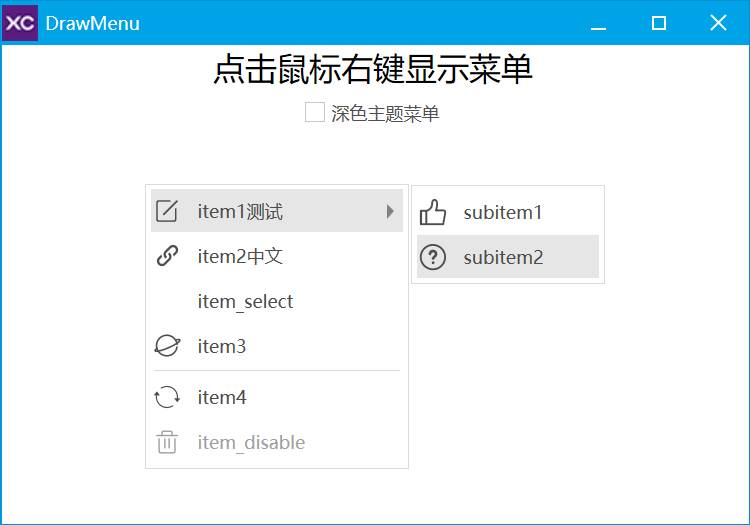
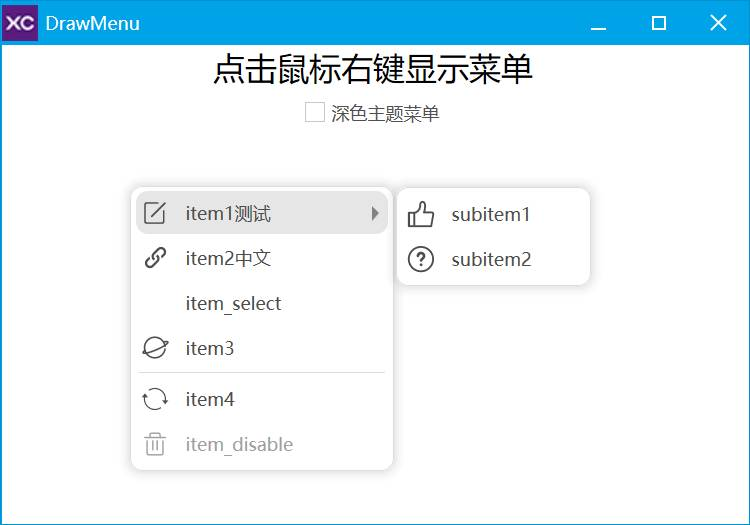
自绘美化菜单

diff --git a/Advanced/DrawMenu/DrawMenu.go b/Advanced/DrawMenu/DrawMenu.go
@@ -103,6 +103,24 @@ func onWindowRButtonUp(hWindow int, nFlags uint, pPt *xc.POINT, pbHandled *bool)
 	return 0
 }
 
+const (
+	svg1 = `<svg t="1644889730063" class="icon" viewBox="0 0 1024 1024" version="1.1" xmlns="http://www.w3.org/2000/svg" p-id="5072" width="20" height="20"><path d="M808.192 413.747c-14.797 0-24.576 9.83-24.576 24.576v343.808c0 29.491-19.507 49.101-49.1 49.101H243.353c-29.594 0-49.101-19.61-49.101-49.1V241.868c0-29.491 19.507-49.101 49.1-49.101h368.385c14.796 0 24.576-9.78 24.576-24.576 0-14.746-9.728-24.576-24.576-24.576h-392.96c-44.39 0-73.677 39.066-73.677 83.302v579.738c0 44.237 29.286 73.677 73.677 73.677H759.04c44.39 0 73.677-29.44 73.677-73.677V438.323c0-14.745-9.728-24.576-24.525-24.576z m-430.131 233.78c11.878 11.775 31.13 11.775 43.059 0l448.87-449.23a30.208 30.208 0 0 0 0-42.854 30.566 30.566 0 0 0-43.059 0l-448.87 449.229a30.106 30.106 0 0 0 0 42.854z" p-id="5073" fill="#4d4d4d"></path></svg>`
+
+	svg2 = `<svg t="1644825215895" class="icon" viewBox="0 0 1024 1024" version="1.1" xmlns="http://www.w3.org/2000/svg" p-id="17579" width="26" height="26"><path d="M752.535797 273.701662l-2.230808-2.227738c-51.299363-51.300386-135.227868-51.300386-186.526207 0l-118.846782 118.883621c-51.299363 51.281967-51.299363 135.222751 0 186.544627l2.192945 2.156106c4.27742 4.267187 8.833179 8.116865 13.485129 11.728112l43.49563-43.544749c-5.086855-2.956332-9.885138-6.591115-14.223956-10.92891l-2.192945-2.156106c-27.855418-27.866674-27.855418-73.180719 0-101.048417L606.609263 314.26859c27.782763-27.855418 73.084529-27.855418 100.951203 0l2.218528 2.180666c27.855418 27.867698 27.855418 73.194022 0 101.012601l-53.736878 53.765531c9.304923 23.067368 13.740956 47.64002 13.304004 72.114434l83.152838-83.117023C803.83516 408.918273 803.83516 325.004095 752.535797 273.701662L752.535797 273.701662 752.535797 273.701662 752.535797 273.701662zM576.877101 444.959118c-4.266164-4.264117-8.820899-8.118911-13.521968-11.680017l-43.472094 43.496653c5.088902 3.00545 9.888208 6.615675 14.249539 10.952446l2.215458 2.227738c27.855418 27.820626 27.855418 73.135694 0 101.002368L417.465438 709.790762c-27.854395 27.821649-73.15616 27.821649-101.010555 0l-2.229784-2.204202c-27.854395-27.864628-27.854395-73.204256 0-100.999298l53.771671-53.745065c-9.317203-23.070438-13.763468-47.665603-13.340843-72.140017l-83.176374 83.068927c-51.312666 51.349505-51.312666 135.288243 0 186.563046l2.216481 2.228761c51.299363 51.251268 135.227868 51.251268 186.526207 0l118.835526-118.883621c51.250244-51.299363 51.250244-135.263683 0-186.513928L576.877101 444.959118 576.877101 444.959118 576.877101 444.959118 576.877101 444.959118zM576.877101 444.959118" p-id="17580" fill="#4d4d4d"></path></svg>`
+
+	svg3 = `<svg t="1644825317661" class="icon" viewBox="0 0 1024 1024" version="1.1" xmlns="http://www.w3.org/2000/svg" p-id="19032" width="18" height="18"><path d="M485.376 931.84c-231.424 0-419.84-188.416-419.84-419.84s188.416-419.84 419.84-419.84c197.632 0 370.688 140.288 410.624 333.824 2.048 11.264 4.096 23.552 6.144 34.816 2.048 16.384-10.24 31.744-26.624 33.792-16.384 2.048-31.744-10.24-33.792-26.624-1.024-10.24-3.072-20.48-5.12-29.696-34.816-165.888-182.272-286.72-352.256-286.72-197.632 1.024-358.4 161.792-358.4 360.448S286.72 871.424 485.376 871.424c177.152 0 329.728-132.096 355.328-306.176 2.048-16.384 17.408-27.648 33.792-25.6 16.384 2.048 27.648 17.408 25.6 33.792C870.4 778.24 691.2 931.84 485.376 931.84z" p-id="19033" fill="#4d4d4d"></path><path d="M95.232 758.784c-45.056 0-70.656-12.288-80.896-36.864-19.456-45.056 34.816-94.208 77.824-126.976 13.312-10.24 31.744-8.192 41.984 5.12 10.24 13.312 8.192 31.744-5.12 41.984-36.864 28.672-51.2 46.08-56.32 55.296 39.936 10.24 202.752-16.384 464.896-130.048 262.144-113.664 393.216-215.04 412.672-250.88-12.288-3.072-47.104-5.12-131.072 14.336-16.384 4.096-32.768-6.144-35.84-22.528-4.096-16.384 6.144-32.768 22.528-35.84 122.88-28.672 185.344-22.528 203.776 18.432 17.408 40.96-19.456 90.112-121.856 158.72-82.944 56.32-198.656 117.76-325.632 173.056-126.976 55.296-250.88 98.304-349.184 119.808-48.128 11.264-87.04 16.384-117.76 16.384z" p-id="19034" fill="#4d4d4d"></path></svg>`
+
+	svg4 = `<svg t="1644820967538" class="icon" viewBox="0 0 1024 1024" version="1.1" xmlns="http://www.w3.org/2000/svg" p-id="4979" width="20" height="20"><path d="M508.5 889.1c-51.1 0-100.7-10-147.4-29.8-45.1-19.1-85.6-46.4-120.3-81.1-34.8-34.8-62.1-75.3-81.1-120.3-19.7-46.7-29.8-96.3-29.8-147.4 0-54.2 11.2-106.5 33.3-155.6l36.5 16.5c-19.8 43.8-29.8 90.6-29.8 139.1 0 186.7 151.9 338.6 338.6 338.6 69.7 0 136.7-21 193.7-60.8l22.9 32.8c-63.7 44.4-138.6 68-216.6 68zM858.1 656.1l-36.9-15.4c17.2-41.3 25.9-85.1 25.9-130.2 0-186.7-151.9-338.6-338.6-338.6-69.3 0-135.9 20.8-192.6 60.1l-22.8-33c63.4-44 137.9-67.2 215.4-67.2 51.1 0 100.7 10 147.4 29.8 45.1 19.1 85.6 46.4 120.3 81.1C811 277.5 838.3 318 857.3 363c19.7 46.7 29.8 96.3 29.8 147.4 0 50.5-9.7 99.5-29 145.7z" p-id="4980" fill="#4d4d4d"></path><path d="M271 454.9L166.6 318.1 57.5 453.9zM965.5 554.6L861 691.4 752 555.5z" p-id="4981" fill="#4d4d4d"></path></svg>`
+
+	svg_select = `<svg t="1644821064310" class="icon" viewBox="0 0 1024 1024" version="1.1" xmlns="http://www.w3.org/2000/svg" p-id="9602" width="20" height="20"><path d="M480 736c-8 0-16-3.2-22.4-9.6l-288-288c-12.8-12.8-12.8-32 0-44.8 12.8-12.8 32-12.8 44.8 0L480 659.2l425.6-425.6c12.8-12.8 32-12.8 44.8 0 12.8 12.8 12.8 32 0 44.8l-448 448C496 732.8 488 736 480 736z" p-id="9603" fill="#4d4d4d"></path></svg>`
+
+	svg_disable = `<svg t="1644892973051" class="icon" viewBox="0 0 1024 1024" version="1.1" xmlns="http://www.w3.org/2000/svg" p-id="5040" width="20" height="20"><path d="M561.1 708.454V413.798c0-47.155 49.102-47.155 49.102 0v294.708c0.05 34.099-49.101 38.656-49.101-0.052z m-147.302 0V413.798c0-47.155 49.101-47.155 49.101 0v294.708c0 38.656-49.1 34.099-49.1-0.052z m442.01-442.01H708.454v-49.151c0-71.731-22.988-98.253-98.252-98.253H413.798c-74.035 0-98.252 24.166-98.252 98.253v49.152H168.192c-53.094 0-53.094 49.1 0 49.1h687.616c53.094 0 53.094-49.1 0-49.1z m-491.162-49.151c0-47.667 2.97-49.101 49.101-49.101h196.455c46.08 0 49.1 1.126 49.1 49.1v49.153H364.646v-49.152z m343.91 687.616h-393.01c-70.964 0-98.253-27.239-98.253-98.253V413.798c0-49.612 49.1-49.612 49.1 0v392.91c0 47.718-0.102 49.151 49.101 49.151h392.91c47.718 0 49.1 0.154 49.1-49.152V413.798c0-48.486 49.1-48.486 49.1 0v392.91c0.103 69.426-23.96 98.2-98.047 98.2z" p-id="5041" fill="#A0A0A0"></path></svg>`
+
+	svg_subitem1 = `<svg t="1644821662815" class="icon" viewBox="0 0 1024 1024" version="1.1" xmlns="http://www.w3.org/2000/svg" p-id="9848" width="20" height="20"><path d="M836.48 867.2l22.08-122.752c20.224-112.832 33.504-188.672 35.776-204.704 6.144-44.352-2.048-52.576-48.736-51.584-16.736 0.32-57.28 0.608-114.752 0.736-26.784 0.064-55.424 0.128-84.064 0.128h-38.208c-24.48 0-39.968-26.464-28.16-48.064 0.8-1.408 2.592-5.184 5.12-11.328 4.512-10.944 9.088-24.32 13.376-40 12.576-45.888 20.16-101.44 20.16-166.592 0-56.384-26.752-92.544-54.944-94.144-27.2-1.536-51.392 32-51.392 103.872 0 96.384-42.72 169.6-112.768 220.864a345.824 345.824 0 0 1-86.272 46.496v394.976h517.728l5.056-27.872v-0.032z m-558.144 92.64H100.8c-20.32 0-36.8-14.56-36.8-32.512V468.864c0-17.952 16.48-32.512 36.832-32.512h197.44l2.336-0.96a288.32 288.32 0 0 0 61.536-34.176c54.432-39.904 86.336-94.464 86.336-168.416 0-104.96 48.768-172.672 119.232-168.64 65.92 3.776 115.648 70.912 115.648 158.88 0 71.072-8.352 132.384-22.496 183.808-1.664 6.176-3.328 11.936-5.056 17.312 25.568 0 50.976-0.064 74.848-0.128v0.032c56.96-0.128 97.44-0.32 113.6-0.704 84.544-1.792 125.664 39.52 113.696 125.44-2.4 17.344-15.584 92.416-36.16 207.232a72131.418 72131.418 0 0 1-29.248 162.496l-2.016 10.976-0.512 2.88C887.04 948.8 873.696 960 858.208 960h-576.64a32.32 32.32 0 0 1-3.232-0.16z m-28.928-64.96V501.312H137.6v393.504h111.776z" p-id="9849" fill="#4d4d4d"></path></svg>`
+
+	svg_subitem2 = `<svg t="1644821694360" class="icon" viewBox="0 0 1024 1024" version="1.1" xmlns="http://www.w3.org/2000/svg" p-id="10142" width="20" height="20"><path d="M465.728 707.2a48.96 48.96 0 1 0 97.92 0 48.96 48.96 0 1 0-97.92 0zM398.08 309.952c-32.32 35.136-67.328 138.24 7.936 140.032 41.984 1.024 41.6-25.088 43.712-31.296s6.336-35.648 19.008-47.936 18.88-18.368 38.592-18.368c19.328 0 34.624 5.12 46.144 15.168 11.584 10.112 17.28 22.336 17.28 36.672a54.848 54.848 0 0 1-7.04 28.416c-4.736 7.936-18.304 22.464-40.896 43.584-23.424 22.016-40.64 45.568-51.008 70.528-22.656 54.656 61.056 71.36 77.888 47.104 16.512-23.872 6.912-28.48 46.528-67.968C616 507.2 628.416 493.696 633.6 485.568c8.96-13.44 15.296-26.688 19.392-39.616a139.072 139.072 0 0 0-13.056-110.464c-38.912-68.48-160.96-113.472-241.856-25.536z" p-id="10143" fill="#4d4d4d"></path><path d="M508.544 66.88A448 448 0 0 0 60.992 514.432a448 448 0 0 0 447.552 447.552 448 448 0 0 0 447.552-447.552A448 448 0 0 0 508.544 66.88z m0 831.104a384 384 0 0 1-383.552-383.552A384 384 0 0 1 508.544 130.88a384 384 0 0 1 383.552 383.552 384 384 0 0 1-383.552 383.552z" p-id="10144" fill="#4d4d4d"></path></svg>`
+)
+
 // MenuEx 美化菜单.
 type MenuEx struct {
 	*widget.Menu
@@ -193,6 +211,35 @@ func (mx *MenuEx) AddSeparator(nParentID ...int32) *MenuEx {
 //
 // hWindowOrhEle: 窗口或元素句柄.
 func (mx *MenuEx) bindMenuEvent(hWindowOrhEle int) *MenuEx {
+	// 菜单弹出窗口事件
+	mx.Menu.AddEvent_Menu_Popup_Wnd(hWindowOrhEle, func(hWindowOrhEle, hMenu int, pInfo *xc.Menu_PopupWnd_, pbHandled *bool) int {
+		// pInfo.HWindow 是菜单窗口句柄
+		w := window.NewByHandle(pInfo.HWindow)
+		// 设置窗口为透明窗口阴影类型
+		w.SetTransparentType(xcc.Window_Transparent_Shadow)
+		// 设置窗口阴影信息
+		w.SetShadowInfo(mx.style.ShadowSize, mx.style.ShadowDepth, mx.style.CornerRadius, false, mx.style.ShadowColor)
+		// 设置窗口透明度
+		w.SetTransparentAlpha(mx.style.TransparentAlpha)
+		// 获取窗口矩形
+		rc := w.GetRectEx()
+		// 因为增加了阴影, 所以要调整窗口大小加上阴影宽度
+		w.SetRect(&xc.RECT{
+			Left:   rc.Left - mx.style.ShadowSize,
+			Top:    rc.Top - mx.style.ShadowSize,
+			Right:  rc.Right + mx.style.ShadowSize,
+			Bottom: rc.Bottom + mx.style.ShadowSize,
+		})
+		// 窗口失去焦点事件
+		w.AddEvent_KillFocus(func(hWindow int, pbHandled *bool) int {
+			if xc.XC_IsHXCGUI(hMenu, xcc.XC_MENU) {
+				xc.XMenu_CloseMenu(hMenu)
+			}
+			return 0
+		})
+		return 0
+	}, false)
+
 	// 背景绘制
 	mx.Menu.AddEvent_Menu_Draw_Background(hWindowOrhEle, func(hWindowOrhEle, hDraw int, pInfo *xc.Menu_DrawBackground_, pbHandled *bool) int {
 		*pbHandled = true
@@ -200,12 +247,21 @@ func (mx *MenuEx) bindMenuEvent(hWindowOrhEle int) *MenuEx {
 		xc.XWnd_GetClientRect(pInfo.HWindow, &rc)
 		// 绘制菜单背景
 		xc.XDraw_SetBrushColor(hDraw, mx.style.BackgroundColor)
-		xc.XDraw_FillRect(hDraw, &rc)
+		if mx.style.CornerRadius > 0 {
+			xc.XDraw_FillRoundRect(hDraw, &rc, mx.style.CornerRadius, mx.style.CornerRadius)
+		} else {
+			xc.XDraw_FillRect(hDraw, &rc)
+		}
 		// 绘制菜单边框
 		xc.XDraw_SetBrushColor(hDraw, mx.style.BorderColor)
-		xc.XDraw_DrawRect(hDraw, &rc)
+		if mx.style.CornerRadius > 0 {
+			xc.XDraw_DrawRoundRect(hDraw, &rc, mx.style.CornerRadius, mx.style.CornerRadius)
+		} else {
+			xc.XDraw_DrawRect(hDraw, &rc)
+		}
 		return 0
 	}, false)
+
 	// 菜单项绘制
 	mx.Menu.AddEvent_Menu_DrawItem(hWindowOrhEle, func(hWindowOrhEle, hDraw int, pInfo *xc.Menu_DrawItem_, pbHandled *bool) int {
 		*pbHandled = true
@@ -232,7 +288,11 @@ func (mx *MenuEx) drawItem(hDraw int, pInfo *xc.Menu_DrawItem_) {
 			Bottom: pInfo.RcItem.Bottom - 1,
 		}
 		xc.XDraw_SetBrushColor(hDraw, mx.style.HoverColor)
-		xc.XDraw_FillRect(hDraw, &rc)
+		if mx.style.CornerRadius > 0 {
+			xc.XDraw_FillRoundRect(hDraw, &rc, mx.style.CornerRadius, mx.style.CornerRadius)
+		} else {
+			xc.XDraw_FillRect(hDraw, &rc)
+		}
 	}
 	// 三角形(指向子菜单)
 	if pInfo.NState&xcc.MenuItem_State_Flag_Popup > 0 {
@@ -249,7 +309,7 @@ func (mx *MenuEx) drawItem(hDraw int, pInfo *xc.Menu_DrawItem_) {
 	// 文本
 	leftWidth := xc.XMenu_GetLeftWidth(pInfo.HMenu)
 	rc := pInfo.RcItem
-	rc.Left = leftWidth + 5
+	rc.Left = leftWidth + 7 + mx.style.ShadowSize
 	if pInfo.NState&xcc.MenuItem_State_Flag_Disable > 0 {
 		xc.XDraw_SetBrushColor(hDraw, mx.style.TextDisabledColor)
 	} else {
@@ -272,7 +332,7 @@ func (mx *MenuEx) drawItem(hDraw int, pInfo *xc.Menu_DrawItem_) {
 			if left < 0 {
 				left = 0
 			}
-			xc.XDraw_Image(hDraw, pInfo.HIcon, left, pInfo.RcItem.Top+top)
+			xc.XDraw_Image(hDraw, pInfo.HIcon, left+mx.style.ShadowSize+2, pInfo.RcItem.Top+top)
 		}
 	}
 }
@@ -283,12 +343,24 @@ func (mx *MenuEx) drawItem(hDraw int, pInfo *xc.Menu_DrawItem_) {
 //
 // 颜色字段默认值: 文字偏深灰, 背景纯白, 边框淡灰.
 type Style struct {
-	// 整菜单项高度(像素). 0 表示使用菜单内部默认值.
+	// 菜单项高度. 0 表示使用菜单内部默认值.
 	ItemHeight int32
 
-	// 整菜单项文本显示区域宽度(像素), 不含左侧图标区. 0 表示不设置.
-	// 如果你需要统一多个菜单项的宽度, 可在添加项后使用 menu.SetItemWidth(id, w) 单独设置.
-	ItemWidth int32
+	// 圆角大小. 0 表示不使用圆角(直角).
+	// 控制菜单背景、菜单边框以及鼠标悬浮时菜单项背景矩形的圆角大小.
+	CornerRadius int32
+
+	// 阴影大小.
+	ShadowSize int32
+
+	// 阴影深度(0-255).
+	ShadowDepth int32
+
+	// 阴影颜色, xc.RGBA 颜色.
+	ShadowColor uint32
+
+	// 菜单窗口整体透明度(0-255). 255 表示完全不透明.
+	TransparentAlpha byte
 
 	// 背景填充色.
 	BackgroundColor uint32
@@ -316,7 +388,11 @@ type Style struct {
 func NewStyle() *Style {
 	return &Style{
 		ItemHeight:        30,
-		ItemWidth:         0,
+		CornerRadius:      8,
+		ShadowSize:        8,
+		ShadowDepth:       80,
+		ShadowColor:       xc.RGBA(0, 0, 0, 128),
+		TransparentAlpha:  255,
 		BackgroundColor:   xc.RGBA(255, 255, 255, 255),
 		BorderColor:       xc.RGBA(218, 220, 224, 255),
 		HoverColor:        xc.RGBA(230, 230, 230, 255),
@@ -331,6 +407,11 @@ func NewStyle() *Style {
 func DarkStyle() *Style {
 	return &Style{
 		ItemHeight:        30,
+		CornerRadius:      8,
+		ShadowSize:        8,
+		ShadowDepth:       80,
+		ShadowColor:       xc.RGBA(0, 0, 0, 128),
+		TransparentAlpha:  255,
 		BackgroundColor:   xc.RGBA(43, 43, 43, 255),
 		BorderColor:       xc.RGBA(70, 70, 70, 255),
 		HoverColor:        xc.RGBA(70, 70, 70, 255),
@@ -347,9 +428,34 @@ func (s *Style) SetItemHeight(h int32) *Style {
 	return s
 }
 
-// SetItemWidth 设置菜单项文本区域宽度, 0 表示不设置.
-func (s *Style) SetItemWidth(w int32) *Style {
-	s.ItemWidth = w
+// SetCornerRadius 设置圆角大小, 0 表示不使用圆角(直角).
+// 会同时影响菜单背景、菜单边框以及鼠标悬浮时菜单项的背景矩形.
+func (s *Style) SetCornerRadius(r int32) *Style {
+	s.CornerRadius = r
+	return s
+}
+
+// SetShadowSize 设置阴影大小, 同时也是菜单窗口四周为阴影预留的扩展宽度.
+func (s *Style) SetShadowSize(n int32) *Style {
+	s.ShadowSize = n
+	return s
+}
+
+// SetShadowDepth 设置阴影深度(0-255).
+func (s *Style) SetShadowDepth(n int32) *Style {
+	s.ShadowDepth = n
+	return s
+}
+
+// SetShadowColor 设置阴影颜色, xc.RGBA 颜色.
+func (s *Style) SetShadowColor(c uint32) *Style {
+	s.ShadowColor = c
+	return s
+}
+
+// SetTransparentAlpha 设置菜单窗口整体透明度(0-255), 255 表示完全不透明.
+func (s *Style) SetTransparentAlpha(a byte) *Style {
+	s.TransparentAlpha = a
 	return s
 }
 
@@ -394,21 +500,3 @@ func (s *Style) SetSubMenuArrowColor(c uint32) *Style {
 	s.SubMenuArrowColor = c
 	return s
 }
-
-const (
-	svg1 = `<svg t="1644889730063" class="icon" viewBox="0 0 1024 1024" version="1.1" xmlns="http://www.w3.org/2000/svg" p-id="5072" width="20" height="20"><path d="M808.192 413.747c-14.797 0-24.576 9.83-24.576 24.576v343.808c0 29.491-19.507 49.101-49.1 49.101H243.353c-29.594 0-49.101-19.61-49.101-49.1V241.868c0-29.491 19.507-49.101 49.1-49.101h368.385c14.796 0 24.576-9.78 24.576-24.576 0-14.746-9.728-24.576-24.576-24.576h-392.96c-44.39 0-73.677 39.066-73.677 83.302v579.738c0 44.237 29.286 73.677 73.677 73.677H759.04c44.39 0 73.677-29.44 73.677-73.677V438.323c0-14.745-9.728-24.576-24.525-24.576z m-430.131 233.78c11.878 11.775 31.13 11.775 43.059 0l448.87-449.23a30.208 30.208 0 0 0 0-42.854 30.566 30.566 0 0 0-43.059 0l-448.87 449.229a30.106 30.106 0 0 0 0 42.854z" p-id="5073" fill="#4d4d4d"></path></svg>`
-
-	svg2 = `<svg t="1644825215895" class="icon" viewBox="0 0 1024 1024" version="1.1" xmlns="http://www.w3.org/2000/svg" p-id="17579" width="26" height="26"><path d="M752.535797 273.701662l-2.230808-2.227738c-51.299363-51.300386-135.227868-51.300386-186.526207 0l-118.846782 118.883621c-51.299363 51.281967-51.299363 135.222751 0 186.544627l2.192945 2.156106c4.27742 4.267187 8.833179 8.116865 13.485129 11.728112l43.49563-43.544749c-5.086855-2.956332-9.885138-6.591115-14.223956-10.92891l-2.192945-2.156106c-27.855418-27.866674-27.855418-73.180719 0-101.048417L606.609263 314.26859c27.782763-27.855418 73.084529-27.855418 100.951203 0l2.218528 2.180666c27.855418 27.867698 27.855418 73.194022 0 101.012601l-53.736878 53.765531c9.304923 23.067368 13.740956 47.64002 13.304004 72.114434l83.152838-83.117023C803.83516 408.918273 803.83516 325.004095 752.535797 273.701662L752.535797 273.701662 752.535797 273.701662 752.535797 273.701662zM576.877101 444.959118c-4.266164-4.264117-8.820899-8.118911-13.521968-11.680017l-43.472094 43.496653c5.088902 3.00545 9.888208 6.615675 14.249539 10.952446l2.215458 2.227738c27.855418 27.820626 27.855418 73.135694 0 101.002368L417.465438 709.790762c-27.854395 27.821649-73.15616 27.821649-101.010555 0l-2.229784-2.204202c-27.854395-27.864628-27.854395-73.204256 0-100.999298l53.771671-53.745065c-9.317203-23.070438-13.763468-47.665603-13.340843-72.140017l-83.176374 83.068927c-51.312666 51.349505-51.312666 135.288243 0 186.563046l2.216481 2.228761c51.299363 51.251268 135.227868 51.251268 186.526207 0l118.835526-118.883621c51.250244-51.299363 51.250244-135.263683 0-186.513928L576.877101 444.959118 576.877101 444.959118 576.877101 444.959118 576.877101 444.959118zM576.877101 444.959118" p-id="17580" fill="#4d4d4d"></path></svg>`
-
-	svg3 = `<svg t="1644825317661" class="icon" viewBox="0 0 1024 1024" version="1.1" xmlns="http://www.w3.org/2000/svg" p-id="19032" width="18" height="18"><path d="M485.376 931.84c-231.424 0-419.84-188.416-419.84-419.84s188.416-419.84 419.84-419.84c197.632 0 370.688 140.288 410.624 333.824 2.048 11.264 4.096 23.552 6.144 34.816 2.048 16.384-10.24 31.744-26.624 33.792-16.384 2.048-31.744-10.24-33.792-26.624-1.024-10.24-3.072-20.48-5.12-29.696-34.816-165.888-182.272-286.72-352.256-286.72-197.632 1.024-358.4 161.792-358.4 360.448S286.72 871.424 485.376 871.424c177.152 0 329.728-132.096 355.328-306.176 2.048-16.384 17.408-27.648 33.792-25.6 16.384 2.048 27.648 17.408 25.6 33.792C870.4 778.24 691.2 931.84 485.376 931.84z" p-id="19033" fill="#4d4d4d"></path><path d="M95.232 758.784c-45.056 0-70.656-12.288-80.896-36.864-19.456-45.056 34.816-94.208 77.824-126.976 13.312-10.24 31.744-8.192 41.984 5.12 10.24 13.312 8.192 31.744-5.12 41.984-36.864 28.672-51.2 46.08-56.32 55.296 39.936 10.24 202.752-16.384 464.896-130.048 262.144-113.664 393.216-215.04 412.672-250.88-12.288-3.072-47.104-5.12-131.072 14.336-16.384 4.096-32.768-6.144-35.84-22.528-4.096-16.384 6.144-32.768 22.528-35.84 122.88-28.672 185.344-22.528 203.776 18.432 17.408 40.96-19.456 90.112-121.856 158.72-82.944 56.32-198.656 117.76-325.632 173.056-126.976 55.296-250.88 98.304-349.184 119.808-48.128 11.264-87.04 16.384-117.76 16.384z" p-id="19034" fill="#4d4d4d"></path></svg>`
-
-	svg4 = `<svg t="1644820967538" class="icon" viewBox="0 0 1024 1024" version="1.1" xmlns="http://www.w3.org/2000/svg" p-id="4979" width="20" height="20"><path d="M508.5 889.1c-51.1 0-100.7-10-147.4-29.8-45.1-19.1-85.6-46.4-120.3-81.1-34.8-34.8-62.1-75.3-81.1-120.3-19.7-46.7-29.8-96.3-29.8-147.4 0-54.2 11.2-106.5 33.3-155.6l36.5 16.5c-19.8 43.8-29.8 90.6-29.8 139.1 0 186.7 151.9 338.6 338.6 338.6 69.7 0 136.7-21 193.7-60.8l22.9 32.8c-63.7 44.4-138.6 68-216.6 68zM858.1 656.1l-36.9-15.4c17.2-41.3 25.9-85.1 25.9-130.2 0-186.7-151.9-338.6-338.6-338.6-69.3 0-135.9 20.8-192.6 60.1l-22.8-33c63.4-44 137.9-67.2 215.4-67.2 51.1 0 100.7 10 147.4 29.8 45.1 19.1 85.6 46.4 120.3 81.1C811 277.5 838.3 318 857.3 363c19.7 46.7 29.8 96.3 29.8 147.4 0 50.5-9.7 99.5-29 145.7z" p-id="4980" fill="#4d4d4d"></path><path d="M271 454.9L166.6 318.1 57.5 453.9zM965.5 554.6L861 691.4 752 555.5z" p-id="4981" fill="#4d4d4d"></path></svg>`
-
-	svg_select = `<svg t="1644821064310" class="icon" viewBox="0 0 1024 1024" version="1.1" xmlns="http://www.w3.org/2000/svg" p-id="9602" width="20" height="20"><path d="M480 736c-8 0-16-3.2-22.4-9.6l-288-288c-12.8-12.8-12.8-32 0-44.8 12.8-12.8 32-12.8 44.8 0L480 659.2l425.6-425.6c12.8-12.8 32-12.8 44.8 0 12.8 12.8 12.8 32 0 44.8l-448 448C496 732.8 488 736 480 736z" p-id="9603" fill="#4d4d4d"></path></svg>`
-
-	svg_disable = `<svg t="1644892973051" class="icon" viewBox="0 0 1024 1024" version="1.1" xmlns="http://www.w3.org/2000/svg" p-id="5040" width="20" height="20"><path d="M561.1 708.454V413.798c0-47.155 49.102-47.155 49.102 0v294.708c0.05 34.099-49.101 38.656-49.101-0.052z m-147.302 0V413.798c0-47.155 49.101-47.155 49.101 0v294.708c0 38.656-49.1 34.099-49.1-0.052z m442.01-442.01H708.454v-49.151c0-71.731-22.988-98.253-98.252-98.253H413.798c-74.035 0-98.252 24.166-98.252 98.253v49.152H168.192c-53.094 0-53.094 49.1 0 49.1h687.616c53.094 0 53.094-49.1 0-49.1z m-491.162-49.151c0-47.667 2.97-49.101 49.101-49.101h196.455c46.08 0 49.1 1.126 49.1 49.1v49.153H364.646v-49.152z m343.91 687.616h-393.01c-70.964 0-98.253-27.239-98.253-98.253V413.798c0-49.612 49.1-49.612 49.1 0v392.91c0 47.718-0.102 49.151 49.101 49.151h392.91c47.718 0 49.1 0.154 49.1-49.152V413.798c0-48.486 49.1-48.486 49.1 0v392.91c0.103 69.426-23.96 98.2-98.047 98.2z" p-id="5041" fill="#A0A0A0"></path></svg>`
-
-	svg_subitem1 = `<svg t="1644821662815" class="icon" viewBox="0 0 1024 1024" version="1.1" xmlns="http://www.w3.org/2000/svg" p-id="9848" width="20" height="20"><path d="M836.48 867.2l22.08-122.752c20.224-112.832 33.504-188.672 35.776-204.704 6.144-44.352-2.048-52.576-48.736-51.584-16.736 0.32-57.28 0.608-114.752 0.736-26.784 0.064-55.424 0.128-84.064 0.128h-38.208c-24.48 0-39.968-26.464-28.16-48.064 0.8-1.408 2.592-5.184 5.12-11.328 4.512-10.944 9.088-24.32 13.376-40 12.576-45.888 20.16-101.44 20.16-166.592 0-56.384-26.752-92.544-54.944-94.144-27.2-1.536-51.392 32-51.392 103.872 0 96.384-42.72 169.6-112.768 220.864a345.824 345.824 0 0 1-86.272 46.496v394.976h517.728l5.056-27.872v-0.032z m-558.144 92.64H100.8c-20.32 0-36.8-14.56-36.8-32.512V468.864c0-17.952 16.48-32.512 36.832-32.512h197.44l2.336-0.96a288.32 288.32 0 0 0 61.536-34.176c54.432-39.904 86.336-94.464 86.336-168.416 0-104.96 48.768-172.672 119.232-168.64 65.92 3.776 115.648 70.912 115.648 158.88 0 71.072-8.352 132.384-22.496 183.808-1.664 6.176-3.328 11.936-5.056 17.312 25.568 0 50.976-0.064 74.848-0.128v0.032c56.96-0.128 97.44-0.32 113.6-0.704 84.544-1.792 125.664 39.52 113.696 125.44-2.4 17.344-15.584 92.416-36.16 207.232a72131.418 72131.418 0 0 1-29.248 162.496l-2.016 10.976-0.512 2.88C887.04 948.8 873.696 960 858.208 960h-576.64a32.32 32.32 0 0 1-3.232-0.16z m-28.928-64.96V501.312H137.6v393.504h111.776z" p-id="9849" fill="#4d4d4d"></path></svg>`
-
-	svg_subitem2 = `<svg t="1644821694360" class="icon" viewBox="0 0 1024 1024" version="1.1" xmlns="http://www.w3.org/2000/svg" p-id="10142" width="20" height="20"><path d="M465.728 707.2a48.96 48.96 0 1 0 97.92 0 48.96 48.96 0 1 0-97.92 0zM398.08 309.952c-32.32 35.136-67.328 138.24 7.936 140.032 41.984 1.024 41.6-25.088 43.712-31.296s6.336-35.648 19.008-47.936 18.88-18.368 38.592-18.368c19.328 0 34.624 5.12 46.144 15.168 11.584 10.112 17.28 22.336 17.28 36.672a54.848 54.848 0 0 1-7.04 28.416c-4.736 7.936-18.304 22.464-40.896 43.584-23.424 22.016-40.64 45.568-51.008 70.528-22.656 54.656 61.056 71.36 77.888 47.104 16.512-23.872 6.912-28.48 46.528-67.968C616 507.2 628.416 493.696 633.6 485.568c8.96-13.44 15.296-26.688 19.392-39.616a139.072 139.072 0 0 0-13.056-110.464c-38.912-68.48-160.96-113.472-241.856-25.536z" p-id="10143" fill="#4d4d4d"></path><path d="M508.544 66.88A448 448 0 0 0 60.992 514.432a448 448 0 0 0 447.552 447.552 448 448 0 0 0 447.552-447.552A448 448 0 0 0 508.544 66.88z m0 831.104a384 384 0 0 1-383.552-383.552A384 384 0 0 1 508.544 130.88a384 384 0 0 1 383.552 383.552 384 384 0 0 1-383.552 383.552z" p-id="10144" fill="#4d4d4d"></path></svg>`
-)
